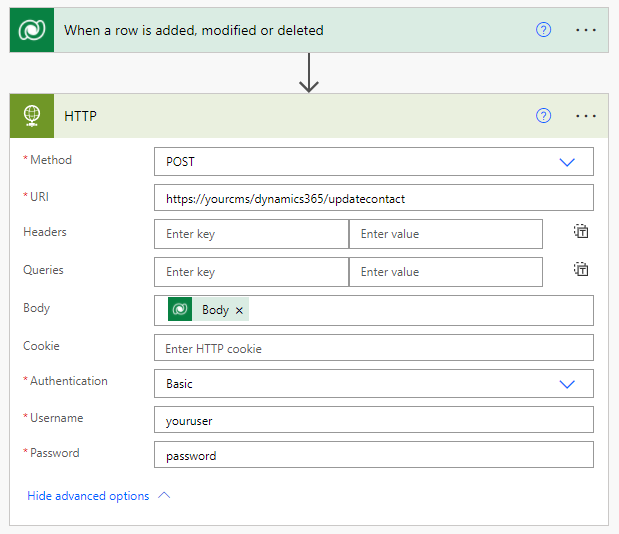
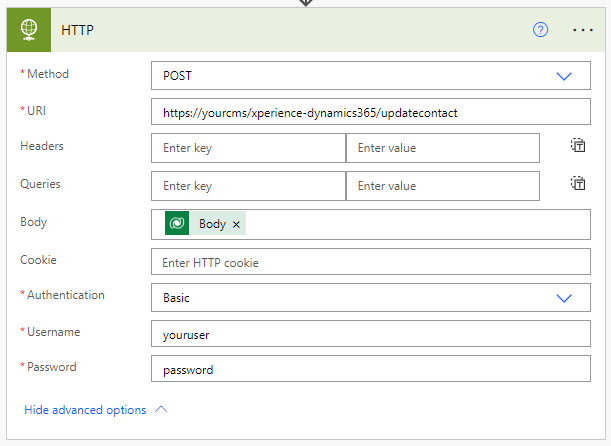
update controller path, validate empty password

Changed region(s): [[0.0, 0.0, 0.9951, 0.991]]

diff --git a/CMSModules/Kentico.Xperience.Dynamics365.Sales/Controllers/Dynamics365ContactController.cs b/CMSModules/Kentico.Xperience.Dynamics365.Sales/Controllers/Dynamics365ContactController.cs
@@ -13,6 +13,7 @@ using Newtonsoft.Json;
 using Newtonsoft.Json.Linq;
 
 using System;
+using System.Collections.Generic;
 using System.Linq;
 using System.Net;
 using System.Net.Http;
@@ -113,19 +114,30 @@ namespace Kentico.Xperience.Dynamics365.Sales.Controllers
         {
             string username;
             string password;
-            var authorizationHeader = Request.Headers.GetValues("Authorization").FirstOrDefault();
+            IEnumerable<string> headerValues;
+            var eventLogService = Service.Resolve<IEventLogService>();
+            if (!Request.Headers.TryGetValues("Authorization", out headerValues))
+            {
+                eventLogService.LogError(nameof(Dynamics365ContactController), nameof(BasicAuthenticate), "Authorization header not present in request.");
+                return null;
+            }
+            
+            var authorizationHeader = headerValues.FirstOrDefault();
             if (String.IsNullOrEmpty(authorizationHeader))
             {
+                eventLogService.LogError(nameof(Dynamics365ContactController), nameof(BasicAuthenticate), "Invalid Authorization header.");
                 return null;
             }
 
             if (SecurityHelper.TryParseBasicAuthorizationHeader(authorizationHeader, out username, out password))
             {
-                var user = AuthenticationHelper.AuthenticateUser(username, password, SiteContext.CurrentSiteName, false, AuthenticationSourceEnum.ExternalOrAPI);
-                if (user != null)
+                if (password == String.Empty)
                 {
-                    return user;
+                    eventLogService.LogError(nameof(Dynamics365ContactController), nameof(BasicAuthenticate), "Empty password is not allowed for incoming contact synchronization.");
+                    return null;
                 }
+
+                return AuthenticationHelper.AuthenticateUser(username, password, SiteContext.CurrentSiteName, false, AuthenticationSourceEnum.ExternalOrAPI);
             }
 
             return null;

diff --git a/CMSModules/Kentico.Xperience.Dynamics365.Sales/Dynamics365Module.cs b/CMSModules/Kentico.Xperience.Dynamics365.Sales/Dynamics365Module.cs
@@ -25,7 +25,7 @@ namespace Kentico.Xperience.Dynamics365.Sales
 
             GlobalConfiguration.Configuration.Routes.MapHttpRoute(
                 "xperience-dynamics365",
-                "dynamics365/updatecontact",
+                "xperience-dynamics365/updatecontact",
                 defaults: new { controller = "Dynamics365Contact", action = "Update" }
             );
         }

diff --git a/README.md b/README.md
@@ -74,7 +74,7 @@ For this example, we will create an __Automated Cloud Flow__ to synchronize the 
 ![Trigger definition](/Assets/flowtrigger.png)
 
 6. Add a new step that uses the __HTTP__ action.
-7. Set the action parameters to send a __POST__ request to the _/dynamics365/updatecontact_ endpoint of your Xperience administration website.
+7. Set the action parameters to send a __POST__ request to the _/xperience-dynamics365/updatecontact_ endpoint of your Xperience administration website.
 8. In the __Body__ parameter, use the "Dynamic content" menu to get the "Body" object, which is the contact information from the trigger.
 9. Expand the "Show advanced options" menu and set the __Authentication__ to "Basic" and provide the username and password of an Xperience user with permissions to modify Xperience contacts. We recommend that you don't use an administrator account, but rather a specific user with limited [permissions](https://docs.xperience.io/managing-users/configuring-permissions).
 
